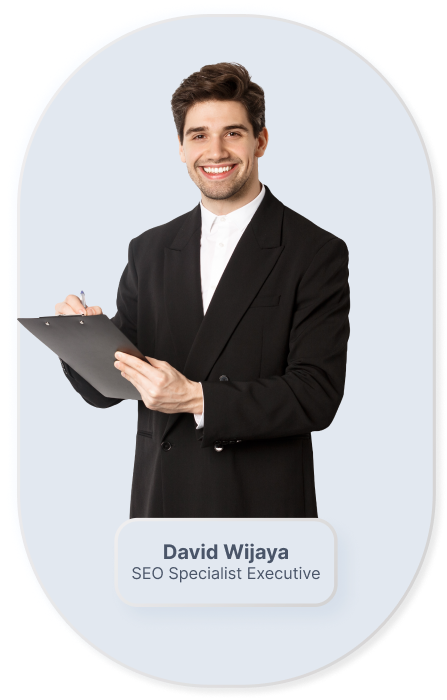
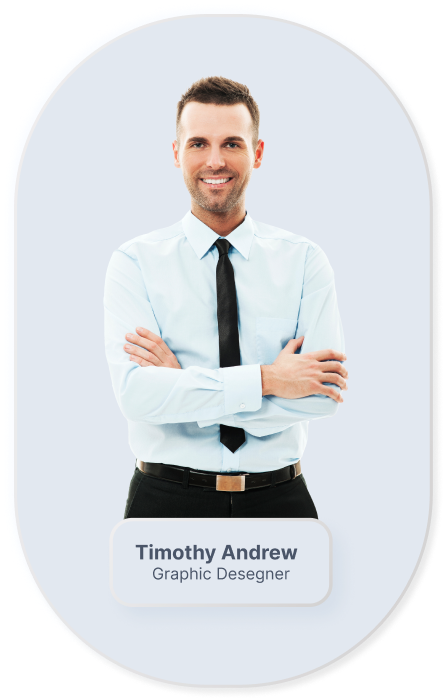
ganti talent

Changed region(s): [[0.0293, 0.09, 0.7905, 0.75], [0.2928, 0.78, 0.732, 0.84]]

diff --git a/style.css b/style.css
@@ -2066,6 +2066,25 @@ footer .copyright span {
         height: 50px;
         border: 15px solid #4e5150;
     }
+    .single-timeline-area .timeline-date {
+        position: absolute;
+        width: 90px;
+        height: 100%;
+        top: 10px;
+        left: 0;
+        z-index: 1;
+        display: -webkit-box;
+        display: -ms-flexbox;
+        display: flex;
+        -webkit-box-align: center;
+        -ms-flex-align: center;
+        -ms-grid-row-align: center;
+        align-items: center;
+        -webkit-box-pack: end;
+        -ms-flex-pack: end;
+        justify-content: flex-end;
+        padding-right: 60px;
+    }
 
     .single-timeline-area .timeline-date-1::after {
         width: 2px;
